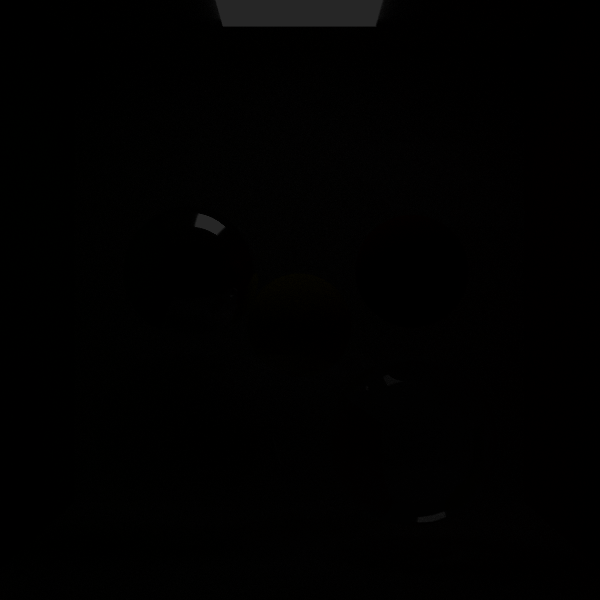
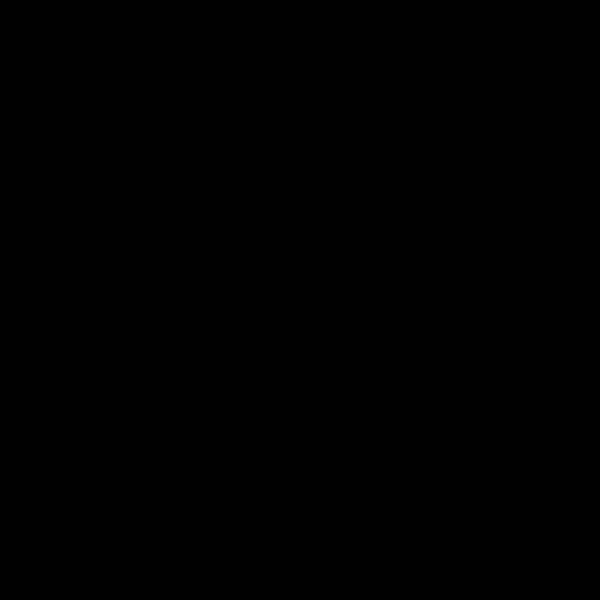
Better diffuse reflectance.

Changed region(s): [[0.36, 0.0, 0.66, 0.06], [0.33, 0.36, 0.39, 0.39]]

diff --git a/src/interactions.h b/src/interactions.h
@@ -195,7 +195,7 @@ __host__ __device__ int calculateBSDF(ray& r, glm::vec3 intersect, glm::vec3 nor
 			retVal = 2;
 		}
 	}
-	else if (m.hasReflective >= u01(rng))	// m.hasReflective between 0 and 1 signifies diffuse reflectance.
+	else if (m.hasReflective)	// m.hasReflective between 0 and 1 signifies diffuse reflectance.
 	{
 		r.direction = glm::normalize (calculateDirectionInLobeAroundNormal (normal, rng));
 		retVal = 1;
